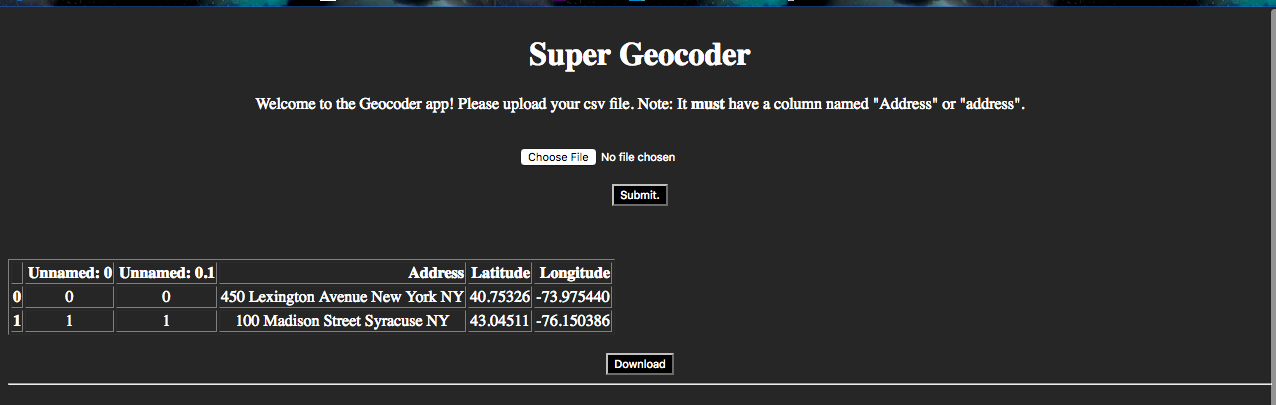
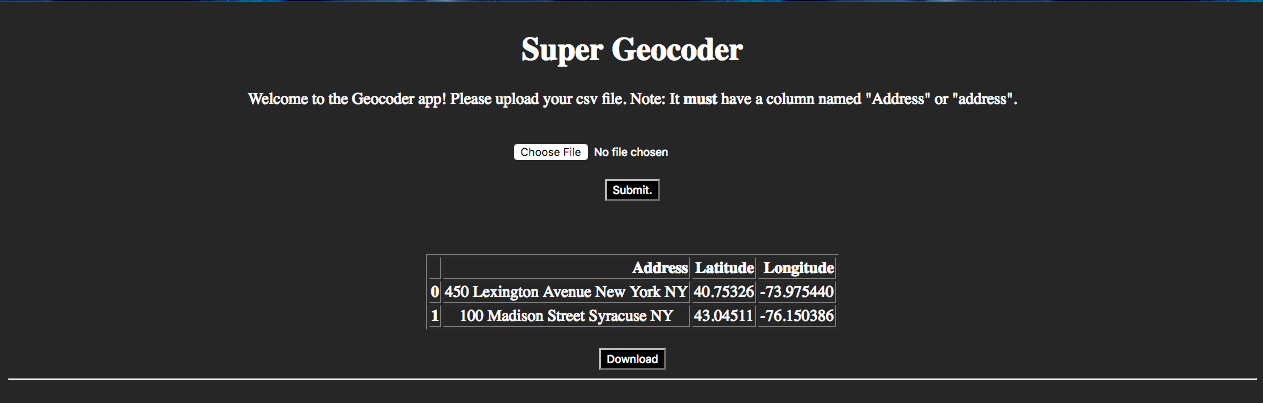
Final touches

diff --git a/ActualPrograms/Geocoder_App/static/main.css b/ActualPrograms/Geocoder_App/static/main.css
@@ -11,7 +11,6 @@ html, body {
 }
 
 .download {
-  text-align: center;
   margin: 0 auto;
 }
 

diff --git a/ActualPrograms/Geocoder_App/latlon.py b/ActualPrograms/Geocoder_App/latlon.py
@@ -3,51 +3,63 @@
 # address.
 import pandas
 from geopy import Nominatim
-from flask import Response
+#from flask import Response
 #from IPython.display import HTML
 
 class geoCSV:
     def readfile(self,uploadedfile):
         global df
-        df = pandas.read_csv(uploadedfile)
-        #df = pandas.read_csv('table.csv')
+        df = pandas.read_csv(uploadedfile, index_col=0)
+        #df = pandas.read_csv('sample.csv')
 
     # If this fails, tell flask "this ain't following the rules"
     def containsAddress(self):
-        try:
-            df['Address']
+        # lowerUpper is 0 if Address is a column, 1 if its address
+        global lowerUpper
+        if ('Address') in df.columns:
+            lowerUpper = 0
             return True
-        except KeyError:
-            print('No Address column in the file.')
+        elif ('address') in df.columns:
+            lowerUpper = 1
+            return True
+        elif( (('address') in df.columns) and (('Address') in df.columns) ):
             return False
-
-    def containsaddress(self):
-        try:
-            df['address']
-            return True
-        except KeyError:
-            print('No address column was found.')
+        else:
+            #print('No address column was found.')
             return False
 
     def addingLatLon(self):
         global df
+        global lowerUpper
         latitude = []
         longitude = []
         geolocator = Nominatim()
-        for index, row in df.iterrows():
-            location = geolocator.geocode(row['Address'])
-            latitude.append(location.latitude)
-            longitude.append(location.longitude)
+        if(lowerUpper==0):
+            for index, row in df.iterrows():
+                location = geolocator.geocode(row['Address'])
+                latitude.append(location.latitude)
+                longitude.append(location.longitude)
+        else:
+            for index, row in df.iterrows():
+                location = geolocator.geocode(row['address'])
+                latitude.append(location.latitude)
+                longitude.append(location.longitude)
         df['Latitude'] = latitude
         df['Longitude'] = longitude
         #print(df)
 
+    # This generates the new file with the new columns, but this may actually
+    # not even be necessary.
     def newCSV(self):
         global df
         df.to_csv('yourfile.csv')
 
+    # This is the least painful way to generate our new CSV file additions
+    # Within the browser. This converts it into an HTML table.
     def render(self):
-        df = pandas.read_csv('yourfile.csv')
-        return df.to_html()
+        global df
+        # I am embarassed by the amount of time it took me to figure out how to
+        # pass a CSS class to the genrated HTML table....
+        return df.to_html(classes='download')
 
 handleUpload = geoCSV()

diff --git a/ActualPrograms/Geocoder_App/backend.py b/ActualPrograms/Geocoder_App/backend.py
@@ -16,27 +16,30 @@ def uploaded():
     if(request.method=='POST'):
         upload = request.files['file']
         extension = upload.filename[-4:]
+        # Check if it's a CSV file, otherwise tell the user.
         if(extension == '.csv'):
             newfilename = secure_filename('uploaded' + upload.filename)
             upload.save(newfilename)
             handleUpload.readfile(newfilename)
+            # Check if file contains an Address column, otherwise tell user.
             if(handleUpload.containsAddress()==True):
                 handleUpload.addingLatLon()
                 handleUpload.newCSV()
                 return render_template('index.html', btn='download.html', content=handleUpload.render())
             else:
-                return render_template('index.html', text='The file you uploaded does\
-                not have a column named "Address" or "address" Please choose a file\
-                 that abides by that so.')
+                return render_template('index.html', text='The file you uploaded either does\
+                not have a column named "Address", "address", or possibly contains both. \
+                Please upload a file containing only 1 "address" or "Address" column.')
         else:
             return render_template('index.html', text='The file you uploaded\
             is not a CSV file. Please reupload with a CSV file.')
 
 @app.route('/download')
 def download():
-    return send_file(secure_filename('uploaded'+upload.filename), attachment_filename='yourfile.csv',
+    return send_file('yourfile.csv',
+    attachment_filename='yourfile.csv',
      as_attachment=True)
 
 if __name__ == '__main__':
-    app.debug=True
+    #app.debug=True
     app.run()
